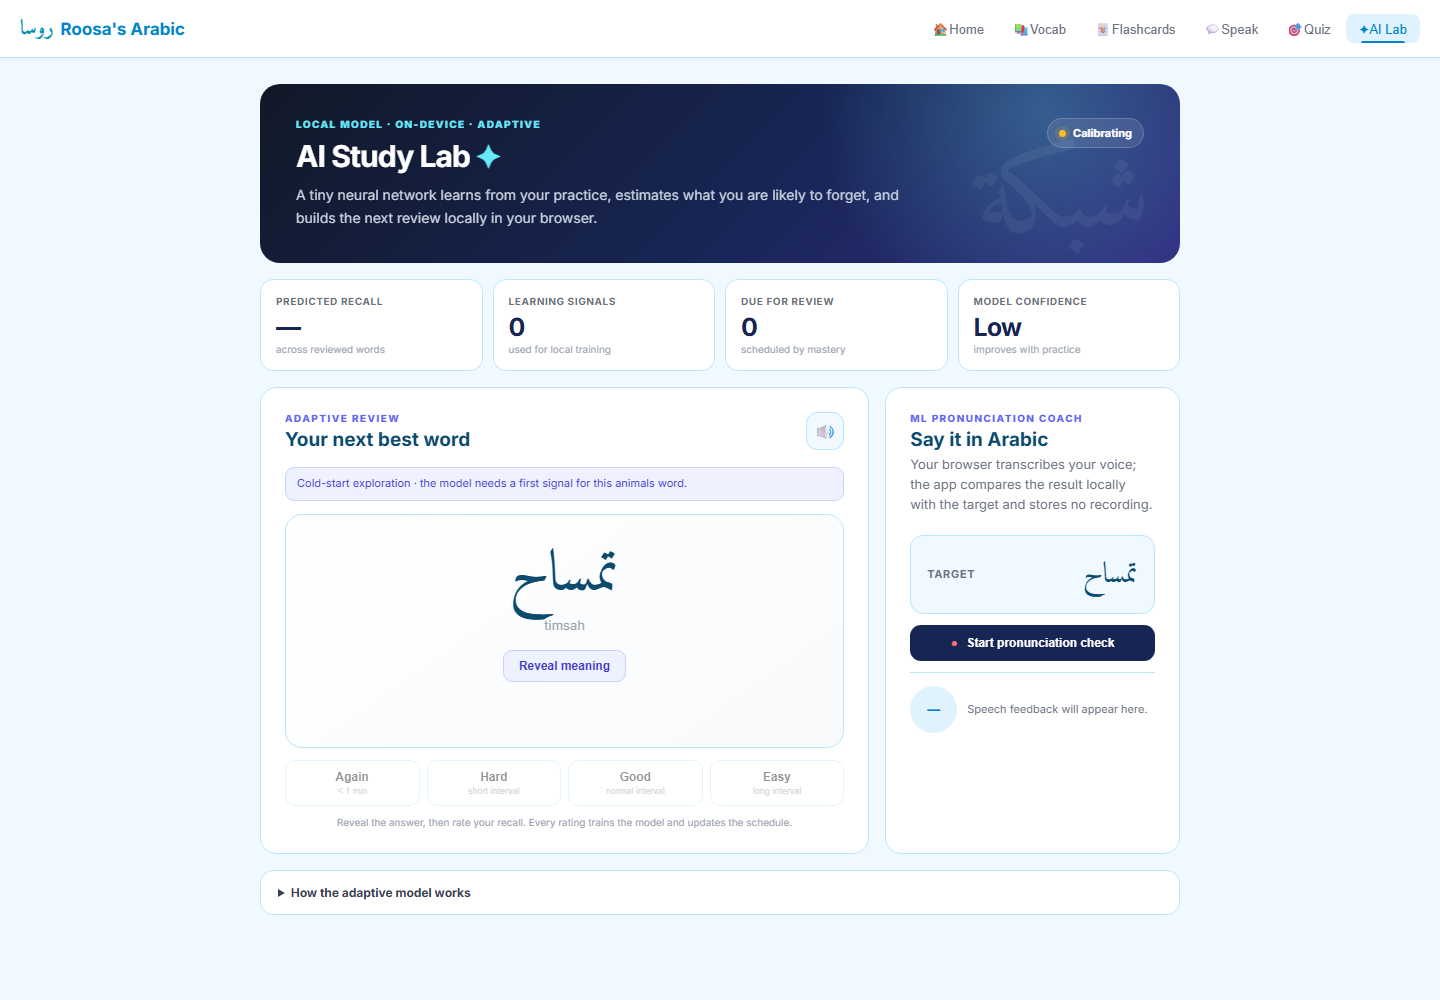
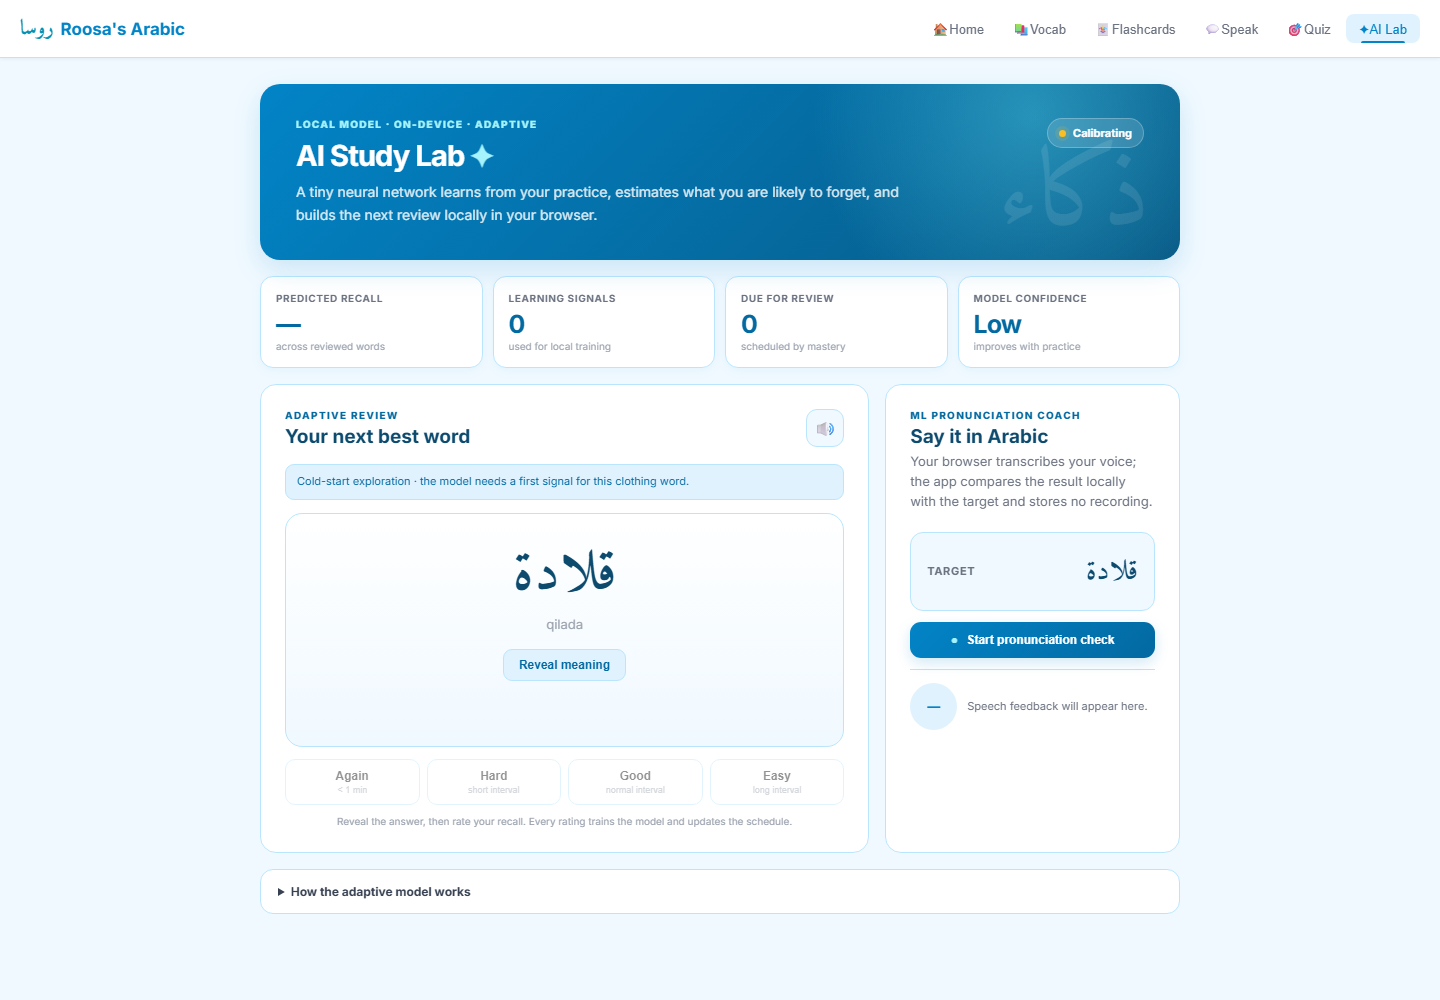
Polish AI Lab design and bust stale assets

diff --git a/style.css b/style.css
@@ -8,6 +8,7 @@
   --g50: #f0f9ff; --g100: #e0f2fe; --g200: #bae6fd;
   --g300: #d1d5db; --g400: #9ca3af; --g500: #6b7280;
   --g700: #374151; --g900: #0c4a6e;
+  --ease-out: cubic-bezier(.23,1,.32,1);
 }
 * { box-sizing: border-box; margin: 0; padding: 0; }
 body { font-family: 'Inter', sans-serif; background: var(--g50); color: var(--g900); min-height: 100vh; font-size: 15px; }
@@ -237,66 +238,80 @@ nav { background: white; border-bottom: 1px solid var(--g200); padding: 0 20px; 
 .quiz-restart:hover { background: var(--rose-d); }
 
 /* ── AI STUDY LAB ── */
-.smart-hero { background: radial-gradient(circle at 85% 15%, rgba(103,232,249,.28), transparent 28%), linear-gradient(135deg,#111827 0%,#172554 54%,#312e81 100%); color:white; border-radius:20px; padding:34px 36px; margin-bottom:16px; display:flex; align-items:flex-start; justify-content:space-between; gap:24px; overflow:hidden; position:relative; }
-.smart-hero::after { content:'شبكة'; position:absolute; right:30px; bottom:-32px; font-family:'Amiri',serif; font-size:108px; opacity:.06; pointer-events:none; }
-.smart-hero h1 { font-size:30px; margin:5px 0 8px; letter-spacing:-.03em; }
-.smart-hero h1 span { color:#67e8f9; }
-.smart-hero p { max-width:620px; color:#cbd5e1; font-size:14px; line-height:1.65; }
-.eyebrow { display:block; color:var(--purple); font-size:10px; font-weight:800; letter-spacing:.14em; }
-.smart-hero .eyebrow { color:#67e8f9; }
-.model-status { background:rgba(255,255,255,.1); border:1px solid rgba(255,255,255,.18); border-radius:999px; padding:7px 11px; font-size:11px; font-weight:700; white-space:nowrap; display:flex; align-items:center; gap:7px; backdrop-filter:blur(8px); }
+.smart-hero { background:radial-gradient(circle at 84% 18%,rgba(103,232,249,.35),transparent 28%),linear-gradient(135deg,#0284c7 0%,#075985 100%); color:white; border-radius:20px; padding:34px 36px; margin-bottom:16px; display:flex; align-items:flex-start; justify-content:space-between; gap:24px; overflow:hidden; position:relative; box-shadow:0 10px 28px rgba(2,132,199,.16); }
+.smart-hero::after { content:'ذكاء'; position:absolute; right:30px; bottom:-32px; font-family:'Amiri',serif; font-size:108px; opacity:.1; pointer-events:none; }
+.smart-hero h1 { font-size:29px; margin:5px 0 7px; letter-spacing:-.03em; }
+.smart-hero h1 span { color:#a5f3fc; }
+.smart-hero p { max-width:610px; color:rgba(255,255,255,.86); font-size:14px; line-height:1.65; }
+.eyebrow { display:block; color:var(--rose-d); font-size:10px; font-weight:800; letter-spacing:.13em; }
+.smart-hero .eyebrow { color:#a5f3fc; }
+.model-status { background:rgba(255,255,255,.14); border:1px solid rgba(255,255,255,.25); border-radius:999px; padding:7px 11px; font-size:11px; font-weight:700; white-space:nowrap; display:flex; align-items:center; gap:7px; backdrop-filter:blur(8px); }
 .status-dot { width:7px; height:7px; border-radius:50%; background:#fbbf24; box-shadow:0 0 0 4px rgba(251,191,36,.13); }
 .model-status.ready .status-dot { background:#22d3ee; box-shadow:0 0 0 4px rgba(34,211,238,.13); }
 .model-metrics { display:grid; grid-template-columns:repeat(4,1fr); gap:10px; margin-bottom:16px; }
-.metric-card { background:white; border:1px solid var(--g200); border-radius:13px; padding:15px; display:flex; flex-direction:column; min-width:0; }
+.metric-card { background:white; border:1px solid var(--g200); border-radius:13px; padding:15px; display:flex; flex-direction:column; min-width:0; box-shadow:0 3px 12px rgba(2,132,199,.05); transition:transform 180ms var(--ease-out),border-color 180ms ease,box-shadow 180ms ease; }
 .metric-label { color:var(--g500); font-size:10px; font-weight:700; text-transform:uppercase; letter-spacing:.06em; }
-.metric-card strong { color:#172554; font-size:25px; margin:5px 0 1px; letter-spacing:-.04em; }
+.metric-card strong { color:var(--rose-d); font-size:25px; margin:5px 0 1px; letter-spacing:-.04em; }
 .metric-note { color:var(--g400); font-size:10px; white-space:nowrap; overflow:hidden; text-overflow:ellipsis; }
 .smart-layout { display:grid; grid-template-columns:minmax(0,1.55fr) minmax(260px,.75fr); gap:16px; align-items:start; }
 .review-panel,.speech-panel { min-height:100%; }
 .panel-heading { display:flex; align-items:flex-start; justify-content:space-between; gap:12px; margin-bottom:13px; }
 .panel-heading h2,.speech-panel h2 { margin-top:4px; }
-.icon-button { width:38px; height:38px; border-radius:11px; border:1px solid var(--g200); background:var(--g50); cursor:pointer; font-size:17px; transition:.2s; }
-.icon-button:hover { transform:translateY(-2px); border-color:var(--blue); background:var(--blue-l); }
-.selection-reason { color:#4338ca; background:#eef2ff; border:1px solid #c7d2fe; border-radius:9px; padding:8px 11px; font-size:11px; line-height:1.45; margin-bottom:13px; }
-.smart-card { min-height:230px; border:1px solid var(--g200); background:linear-gradient(145deg,#fff,#f8fafc); border-radius:17px; padding:25px; display:flex; flex-direction:column; justify-content:center; align-items:center; box-shadow:inset 0 1px 0 #fff; }
-.smart-card.new-card { animation:fadeSlideIn .28s ease both; }
+.icon-button { width:38px; height:38px; border-radius:11px; border:1px solid var(--g200); background:var(--g50); cursor:pointer; font-size:17px; transition:transform 150ms var(--ease-out),border-color 180ms ease,background-color 180ms ease; }
+.icon-button:active { transform:scale(.96); }
+.selection-reason { color:var(--rose-d); background:var(--rose-l); border:1px solid var(--g200); border-radius:9px; padding:9px 11px; font-size:11px; line-height:1.45; margin-bottom:13px; }
+.smart-card { min-height:230px; border:1px solid var(--g200); background:linear-gradient(180deg,#fff 0%,#f0f9ff 100%); border-radius:17px; padding:25px; display:flex; flex-direction:column; justify-content:center; align-items:center; box-shadow:inset 0 1px 0 #fff; }
+.smart-card.new-card { animation:fadeSlideIn .24s var(--ease-out) both; }
 .smart-ar { font-family:'Amiri',serif; font-size:58px; line-height:1.25; text-align:center; }
 .smart-tr { color:var(--g400); font-size:13px; margin:4px 0 17px; }
-.reveal-button { border:1px solid #c7d2fe; color:#4338ca; background:#eef2ff; border-radius:9px; padding:8px 15px; font-size:12px; font-weight:700; cursor:pointer; transition:.2s; }
-.reveal-button:hover { background:#e0e7ff; transform:translateY(-1px); }
-.smart-answer { min-height:29px; font-size:20px; font-weight:700; margin-top:11px; color:#172554; opacity:0; transform:translateY(4px); transition:.2s; }
+.reveal-button { border:1px solid var(--g200); color:var(--rose-d); background:var(--rose-l); border-radius:9px; padding:8px 15px; font-size:12px; font-weight:700; cursor:pointer; transition:transform 150ms var(--ease-out),background-color 180ms ease,border-color 180ms ease; }
+.reveal-button:active { transform:scale(.97); }
+.smart-answer { min-height:29px; font-size:20px; font-weight:700; margin-top:11px; color:var(--rose-d); opacity:0; transform:translateY(4px); transition:opacity 180ms ease,transform 180ms var(--ease-out); }
 .smart-answer.visible { opacity:1; transform:translateY(0); }
-.review-actions { display:grid; grid-template-columns:repeat(4,1fr); gap:7px; margin-top:12px; opacity:.42; pointer-events:none; transition:.2s; }
+.review-actions { display:grid; grid-template-columns:repeat(4,1fr); gap:7px; margin-top:12px; opacity:.42; pointer-events:none; transition:opacity 180ms ease; }
 .review-actions.enabled { opacity:1; pointer-events:auto; }
-.rating { border:1px solid var(--g200); background:white; border-radius:10px; padding:9px 7px; cursor:pointer; display:flex; flex-direction:column; gap:2px; transition:.2s; }
+.rating { border:1px solid var(--g200); background:white; border-radius:10px; padding:9px 7px; cursor:pointer; display:flex; flex-direction:column; gap:2px; transition:transform 150ms var(--ease-out),border-color 180ms ease,background-color 180ms ease,box-shadow 180ms ease; }
 .rating strong { font-size:12px; }
 .rating span { font-size:9px; color:var(--g400); }
-.rating:hover { transform:translateY(-2px); box-shadow:0 4px 11px rgba(15,23,42,.08); }
-.rating.again:hover { border-color:#ef4444; color:#b91c1c; background:#fef2f2; }
-.rating.hard:hover { border-color:#f59e0b; color:#b45309; background:#fffbeb; }
-.rating.good:hover { border-color:#06b6d4; color:#0e7490; background:#ecfeff; }
-.rating.easy:hover { border-color:#10b981; color:#047857; background:#ecfdf5; }
+.rating:active { transform:scale(.97); }
 .review-hint { color:var(--g400); font-size:10px; text-align:center; margin-top:9px; line-height:1.45; }
 .speech-panel .subtitle { line-height:1.55; }
 .speech-target { background:var(--g50); border:1px solid var(--g200); border-radius:13px; padding:13px 16px; display:flex; align-items:center; justify-content:space-between; gap:10px; }
 .speech-target span { color:var(--g500); font-size:11px; font-weight:700; text-transform:uppercase; letter-spacing:.06em; }
 .speech-target strong { font-family:'Amiri',serif; font-size:29px; font-weight:400; }
-.record-button { width:100%; border:0; border-radius:11px; padding:11px 14px; margin:11px 0; color:white; background:#172554; font-size:12px; font-weight:700; cursor:pointer; transition:.2s; }
-.record-button:hover { background:#312e81; transform:translateY(-1px); }
+.record-button { width:100%; border:0; border-radius:11px; padding:11px 14px; margin:11px 0; color:white; background:linear-gradient(135deg,var(--rose),var(--rose-d)); font-size:12px; font-weight:700; cursor:pointer; box-shadow:0 5px 14px rgba(2,132,199,.18); transition:transform 150ms var(--ease-out),box-shadow 180ms ease,filter 180ms ease; }
+.record-button:active { transform:scale(.98); }
 .record-button.listening { background:#b91c1c; animation:pulse-ring .9s infinite; }
-.record-icon { color:#f87171; margin-right:5px; }
+.record-icon { color:#a5f3fc; margin-right:5px; }
 .record-button.listening .record-icon { color:white; }
 .speech-result { border-top:1px solid var(--g200); padding-top:13px; display:grid; grid-template-columns:47px 1fr; gap:10px; align-items:center; }
 .speech-score { width:47px; height:47px; display:grid; place-items:center; border-radius:50%; background:var(--g100); color:var(--rose); font-size:13px; font-weight:800; }
 .speech-result p { color:var(--g500); font-size:11px; line-height:1.5; }
 .model-details { background:white; border:1px solid var(--g200); border-radius:13px; margin-top:16px; overflow:hidden; }
-.model-details summary { padding:14px 17px; cursor:pointer; font-size:12px; font-weight:700; color:var(--g700); }
+.model-details summary { padding:14px 17px; cursor:pointer; font-size:12px; font-weight:700; color:var(--g700); transition:background-color 180ms ease,color 180ms ease; }
 .model-detail-grid { display:grid; grid-template-columns:repeat(4,1fr); gap:0; border-top:1px solid var(--g200); }
 .model-detail-grid div { padding:15px 17px; border-right:1px solid var(--g200); }
 .model-detail-grid div:last-child { border-right:0; }
-.model-detail-grid strong { display:block; font-size:11px; margin-bottom:4px; color:#312e81; }
+.model-detail-grid strong { display:block; font-size:11px; margin-bottom:4px; color:var(--rose-d); }
 .model-detail-grid span { display:block; color:var(--g500); font-size:10px; line-height:1.55; }
+
+@media (hover:hover) and (pointer:fine) {
+  .metric-card:hover { transform:translateY(-2px); border-color:var(--g200); box-shadow:0 7px 18px rgba(2,132,199,.1); }
+  .icon-button:hover { transform:translateY(-2px); border-color:var(--blue); background:var(--blue-l); }
+  .reveal-button:hover { background:#bae6fd; border-color:#7dd3fc; transform:translateY(-1px); }
+  .rating:hover { transform:translateY(-2px); box-shadow:0 4px 11px rgba(2,132,199,.09); }
+  .rating.again:hover { border-color:#ef4444; color:#b91c1c; background:#fef2f2; }
+  .rating.hard:hover { border-color:#f59e0b; color:#b45309; background:#fffbeb; }
+  .rating.good:hover { border-color:#06b6d4; color:#0e7490; background:#ecfeff; }
+  .rating.easy:hover { border-color:#10b981; color:#047857; background:#ecfdf5; }
+  .record-button:hover { filter:brightness(1.05); box-shadow:0 7px 18px rgba(2,132,199,.25); transform:translateY(-1px); }
+  .model-details summary:hover { background:var(--g50); color:var(--rose-d); }
+}
+
+@media (prefers-reduced-motion:reduce) {
+  .smart-card.new-card { animation:fadeSlideIn .18s ease both; }
+  .smart-answer { transform:none; }
+}
 
 /* ── RESPONSIVE ── */
 @media (max-width: 640px) {

diff --git a/index.html b/index.html
@@ -6,7 +6,7 @@
 <title>Roosa's Arabic</title>
 <meta name="description" content="An English-first Arabic learning app with adaptive neural review, pronunciation feedback, 900+ vocabulary entries, conversations, and quizzes.">
 <link href="https://fonts.googleapis.com/css2?family=Amiri:ital,wght@0,400;0,700;1,400&family=Inter:wght@400;500;600;700;800&display=swap" rel="stylesheet">
-<link rel="stylesheet" href="style.css">
+<link rel="stylesheet" href="style.css?v=20260928-2">
 </head>
 <body>
 
@@ -317,8 +317,8 @@
 <script src="data/conversations.js"></script>
 <script src="data/scramble.js"></script>
 <script src="data/patterns.js"></script>
-<script src="ml-engine.js"></script>
-<script src="app.js"></script>
+<script src="ml-engine.js?v=20260928-2"></script>
+<script src="app.js?v=20260928-2"></script>
 
 <script>
 // wire up alphabet tab pills
